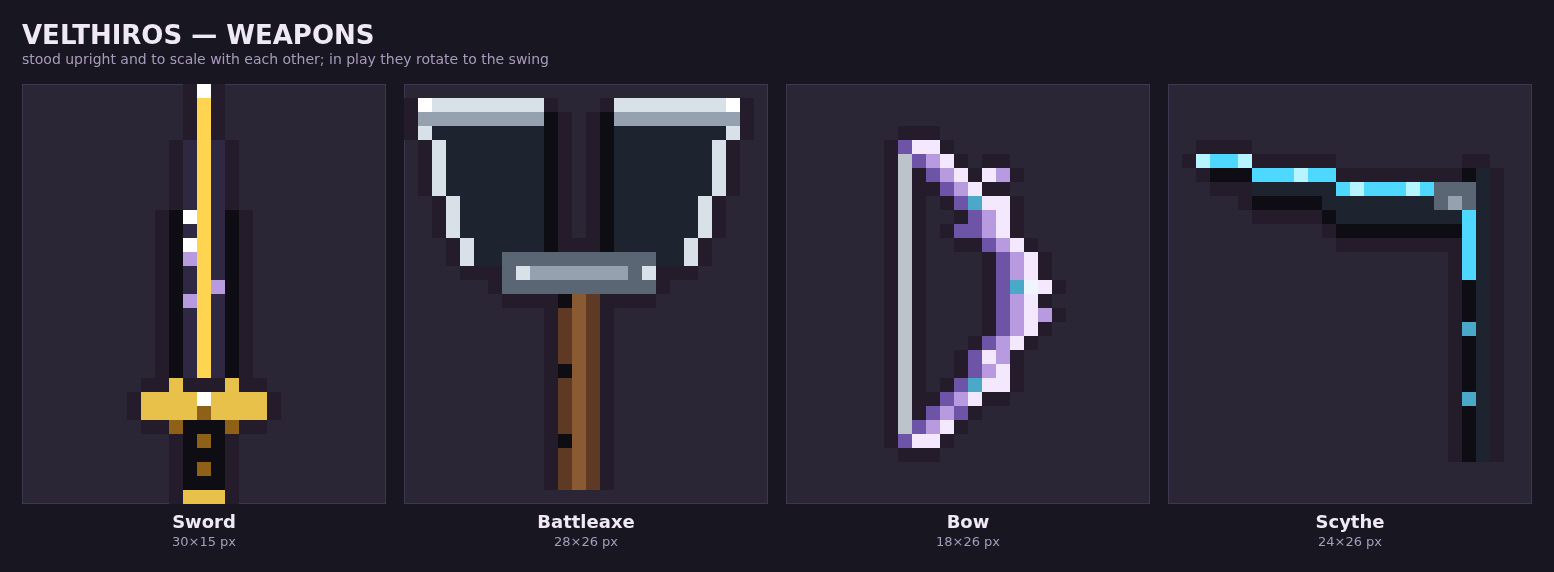
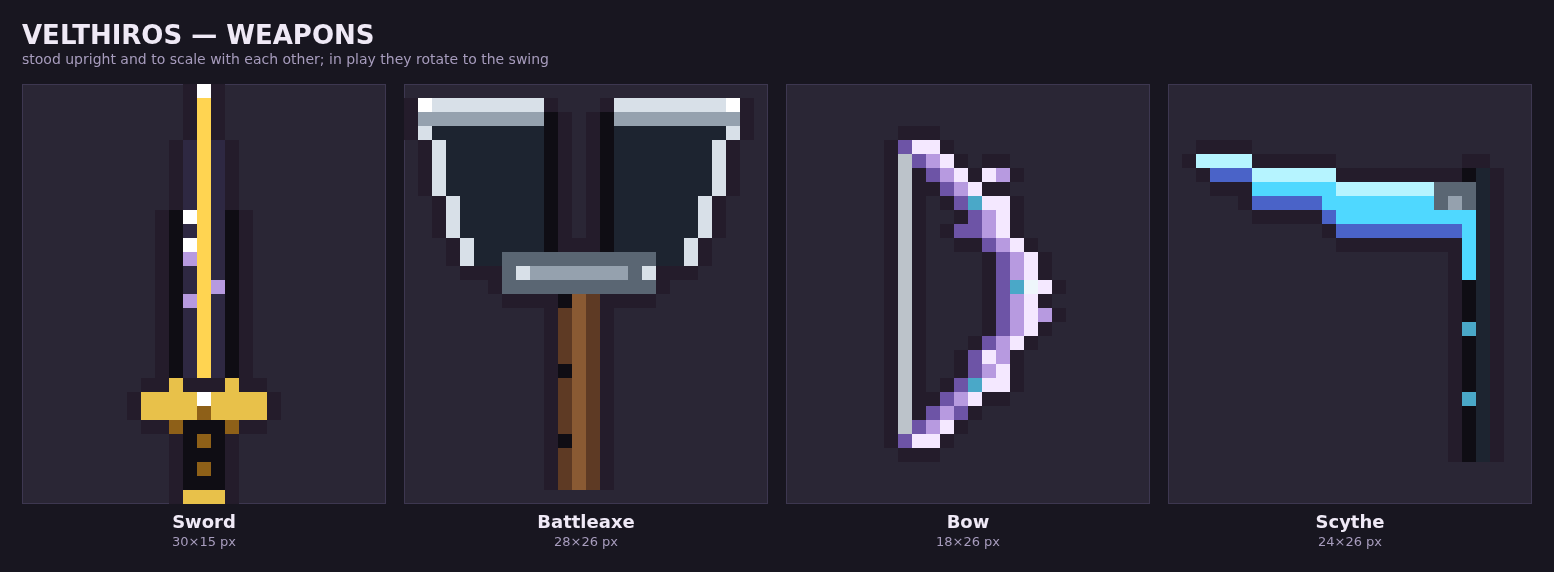
Make the scythe blade blue, rather than a blue edge on a black blade
It was the second, which at this size is a black blade. The edge is one pixel
and the body is three, so the colour anyone actually reads is the body - and
the body was 'E', near-black. The sheet made that obvious the moment the four
weapons were sat next to each other.

The blade now runs the full neon ramp across its thickness: ';' deep along the
blunt back, '/' through the body, '_' on the cutting edge. That also drops the
every-fourth-row hot core, which was there to fake a glow on a dark blade and
just reads as dashes once the blade is lit all the way through.

Nothing else changed - the haft, the taper, the collar and the L are all as
they were, and the armour sheet is byte-identical.

Claude-Session: https://claude.ai/code/session_01Y2fyyHDb4SBExmDLtCWEfF

Changed region(s): [[0.7722, 0.2675, 0.9575, 0.4161]]

diff --git a/dist/artifact.html b/dist/artifact.html
@@ -3579,9 +3579,12 @@ html, body {
        then hooked the tip forward again, which is three changes of direction
        and reads as a Z, not a scythe.
 
-       It burns neon sky blue: the edge is '/' over a near-black body, with '_'
-       laid over it every few rows so it reads as a glow with a hot core rather
-       than a painted stripe. */
+       The BLADE IS BLUE, not a blue edge on a black blade. It was the second
+       for a while, which at this size is a black blade: the edge is one pixel
+       and the body is three, so the colour you actually read is the body. It
+       now runs the full neon ramp across its thickness - ';' deep along the
+       blunt back, '/' through the body, '_' on the cutting edge - so it is a
+       blue blade that is lit rather than a dark one with a stripe. */
     return Px.make(24, 26, function (g) {
       /* The long stroke, two rows and no more. At three it was as thick as the
          blade was wide and the whole weapon read as a club with an edge on it;
@@ -3599,10 +3602,9 @@ html, body {
         var t = (20 - y) / 17;
         var x = 19 + Math.round(t * t * 2);         /* the faintest forward lean */
         var back = t < 0.58 ? 3 : (t < 0.86 ? 2 : 1);
-        g.rect('E', x - back, y, back + 1, 1);      /* body */
-        g.set(x - back, y, 'U');                    /* the blunt back */
-        g.set(x, y, '/');                           /* the burning edge */
-        if (y % 4 === 1) g.set(x, y, '_');          /* its hot core */
+        g.rect('/', x - back, y, back + 1, 1);      /* the blade itself */
+        g.set(x - back, y, ';');                    /* the blunt back, deeper */
+        g.set(x, y, '_');                           /* the burning edge */
       }
       g.set(21, 2, '_');                            /* the point */
 

diff --git a/dist/velthiros.html b/dist/velthiros.html
@@ -3594,9 +3594,12 @@ html, body {
        then hooked the tip forward again, which is three changes of direction
        and reads as a Z, not a scythe.
 
-       It burns neon sky blue: the edge is '/' over a near-black body, with '_'
-       laid over it every few rows so it reads as a glow with a hot core rather
-       than a painted stripe. */
+       The BLADE IS BLUE, not a blue edge on a black blade. It was the second
+       for a while, which at this size is a black blade: the edge is one pixel
+       and the body is three, so the colour you actually read is the body. It
+       now runs the full neon ramp across its thickness - ';' deep along the
+       blunt back, '/' through the body, '_' on the cutting edge - so it is a
+       blue blade that is lit rather than a dark one with a stripe. */
     return Px.make(24, 26, function (g) {
       /* The long stroke, two rows and no more. At three it was as thick as the
          blade was wide and the whole weapon read as a club with an edge on it;
@@ -3614,10 +3617,9 @@ html, body {
         var t = (20 - y) / 17;
         var x = 19 + Math.round(t * t * 2);         /* the faintest forward lean */
         var back = t < 0.58 ? 3 : (t < 0.86 ? 2 : 1);
-        g.rect('E', x - back, y, back + 1, 1);      /* body */
-        g.set(x - back, y, 'U');                    /* the blunt back */
-        g.set(x, y, '/');                           /* the burning edge */
-        if (y % 4 === 1) g.set(x, y, '_');          /* its hot core */
+        g.rect('/', x - back, y, back + 1, 1);      /* the blade itself */
+        g.set(x - back, y, ';');                    /* the blunt back, deeper */
+        g.set(x, y, '_');                           /* the burning edge */
       }
       g.set(21, 2, '_');                            /* the point */
 

diff --git a/src/js/sprites.js b/src/js/sprites.js
@@ -1448,9 +1448,12 @@
        then hooked the tip forward again, which is three changes of direction
        and reads as a Z, not a scythe.
 
-       It burns neon sky blue: the edge is '/' over a near-black body, with '_'
-       laid over it every few rows so it reads as a glow with a hot core rather
-       than a painted stripe. */
+       The BLADE IS BLUE, not a blue edge on a black blade. It was the second
+       for a while, which at this size is a black blade: the edge is one pixel
+       and the body is three, so the colour you actually read is the body. It
+       now runs the full neon ramp across its thickness - ';' deep along the
+       blunt back, '/' through the body, '_' on the cutting edge - so it is a
+       blue blade that is lit rather than a dark one with a stripe. */
     return Px.make(24, 26, function (g) {
       /* The long stroke, two rows and no more. At three it was as thick as the
          blade was wide and the whole weapon read as a club with an edge on it;
@@ -1468,10 +1471,9 @@
         var t = (20 - y) / 17;
         var x = 19 + Math.round(t * t * 2);         /* the faintest forward lean */
         var back = t < 0.58 ? 3 : (t < 0.86 ? 2 : 1);
-        g.rect('E', x - back, y, back + 1, 1);      /* body */
-        g.set(x - back, y, 'U');                    /* the blunt back */
-        g.set(x, y, '/');                           /* the burning edge */
-        if (y % 4 === 1) g.set(x, y, '_');          /* its hot core */
+        g.rect('/', x - back, y, back + 1, 1);      /* the blade itself */
+        g.set(x - back, y, ';');                    /* the blunt back, deeper */
+        g.set(x, y, '_');                           /* the burning edge */
       }
       g.set(21, 2, '_');                            /* the point */
 
